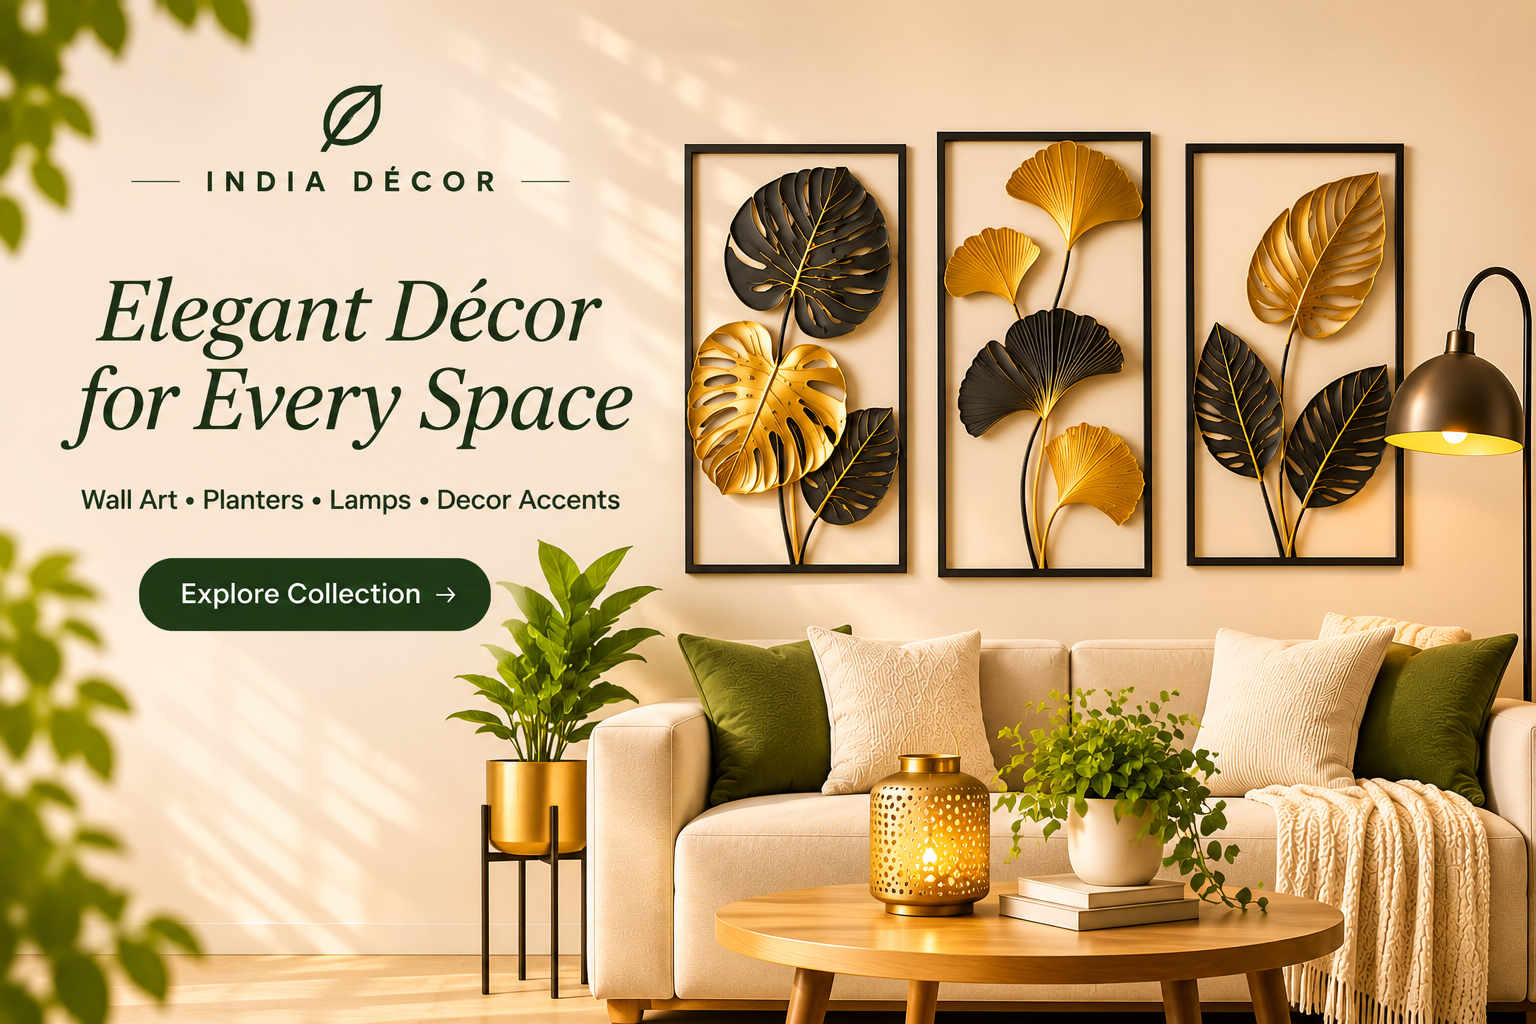
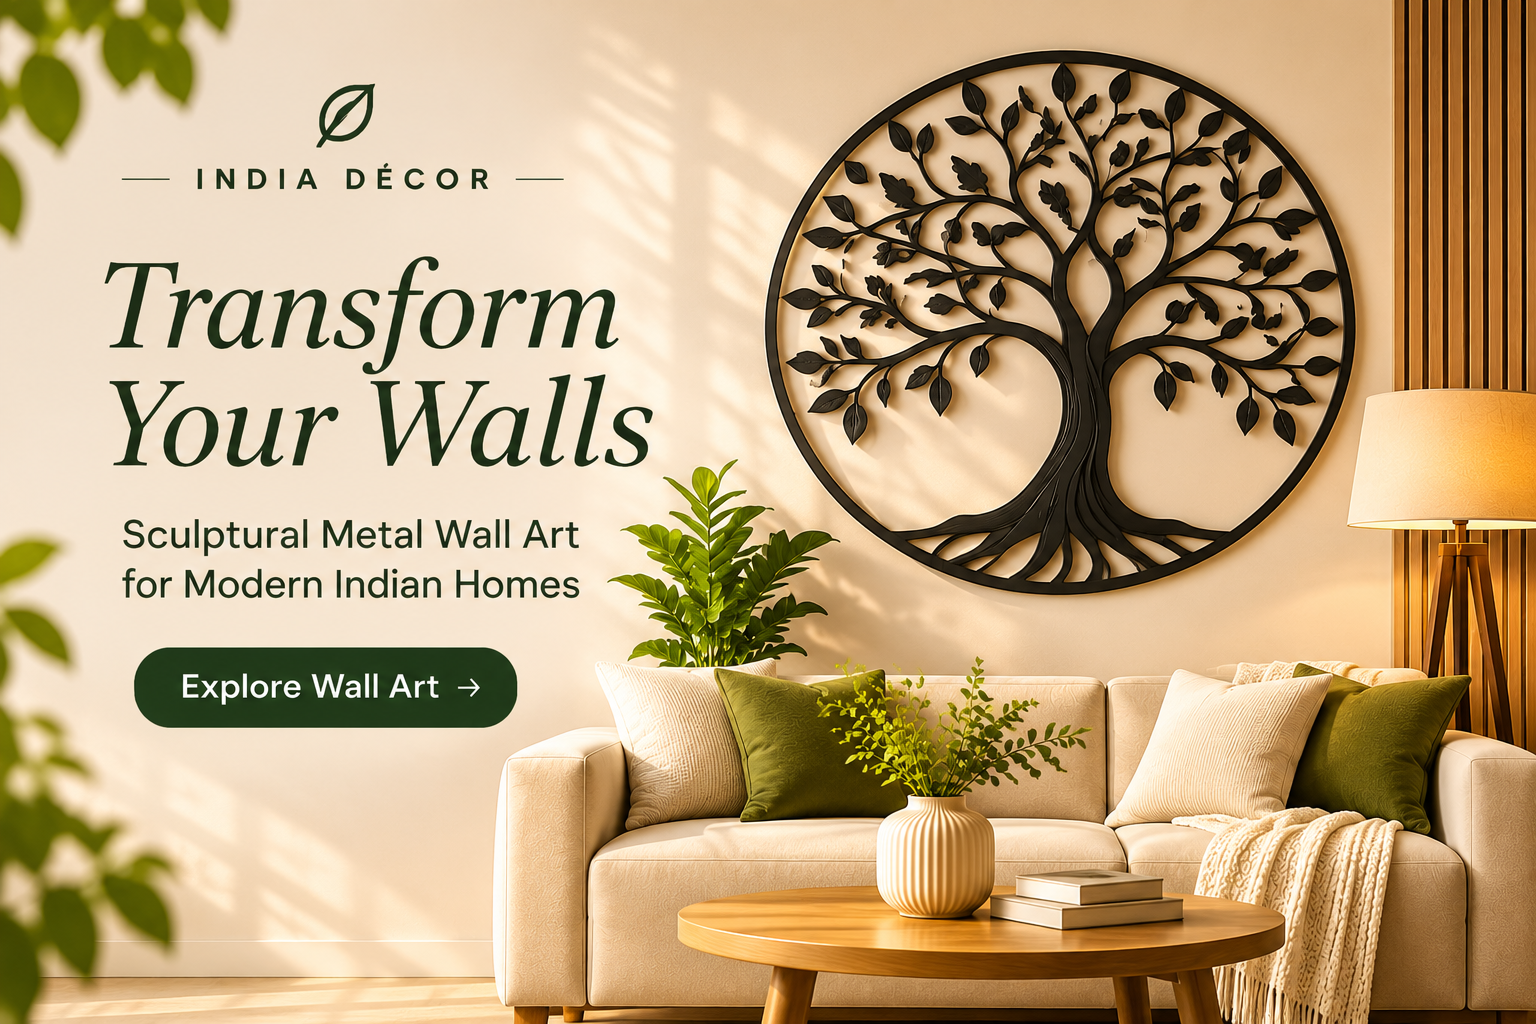
fix bannser

diff --git a/src/components/homepage/HeroBanner.tsx b/src/components/homepage/HeroBanner.tsx
@@ -11,6 +11,7 @@ const heroSlides = [
     buttonLink: "/collections/all",
     buttonText: "Shop Now",
     desktopImage: "/images/herobanner1.png",
+    tabletImage: "/images/tabletbanner1.png",
     mobileImage: "/images/mobilebanner1.png",
     alt: "Black metal mountain wall art above a cream sofa in a modern living room",
   },
@@ -19,6 +20,7 @@ const heroSlides = [
     buttonLink: "/collections/all",
     buttonText: "Explore Collection",
     desktopImage: "/images/herobanner2.png",
+    tabletImage: "/images/tabletbanner2.png",
     mobileImage: "/images/mobilebanner2.png",
     alt: "Black metal mountain wall art above a wooden dining table",
   },
@@ -27,7 +29,8 @@ const heroSlides = [
     buttonLink: "/collections/all",
     buttonText: "Explore Collection",
     desktopImage: "/images/herobanner3.png",
-    mobileImage: "/images/mobilebanner3.png",
+    tabletImage: "/images/tabletbanner3.png",
+    mobileImage: "/images/mobilebanner3.png",   
     alt: "Black metal mountain wall art above a wooden dining table",
   },
   {
@@ -35,6 +38,7 @@ const heroSlides = [
     buttonLink: "/collections/all",
     buttonText: "Explore Collection",
     desktopImage: "/images/herobanner4.png",
+    tabletImage: "/images/tabletbanner4.png",
     mobileImage: "/images/mobilebanner4.png",
     alt: "Black metal mountain wall art above a wooden dining table",
   },
@@ -73,8 +77,12 @@ const HeroBanner = () => {
               >
                 <picture>
                   <source
-                    media="(max-width: 540px)"
+                    media="(max-width: 767px)"
                     srcSet={slide.mobileImage || slide.desktopImage}
+                  />
+                  <source
+                    media="(max-width: 1199px)"
+                    srcSet={slide.tabletImage || slide.desktopImage}
                   />
                   <img
                     src={slide.desktopImage}

diff --git a/src/styles/hero.css b/src/styles/hero.css
@@ -244,7 +244,7 @@
   }
 
   .carousel-control {
-    top: 130px;
+    top: 50%;
     width: 34px;
     height: 34px;
   }
@@ -268,7 +268,4 @@
     min-height: 220px;
   }
 
-  .carousel-control {
-    top: 110px;
-  }
 }
